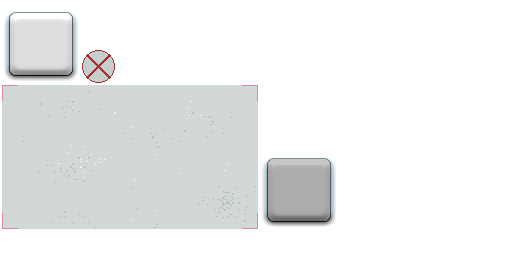
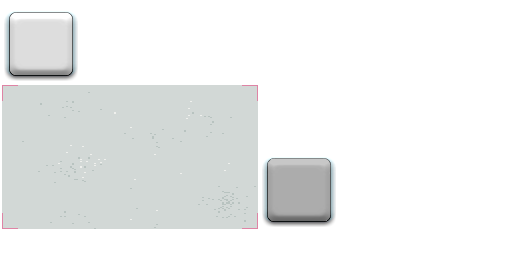
lots of stuff

Changed region(s): [[0.1562, 0.1875, 0.25, 0.3438]]

diff --git a/source code/core/src/no/sandramoen/drawingGame/screens/gameplay/LevelScreen.java b/source code/core/src/no/sandramoen/drawingGame/screens/gameplay/LevelScreen.java
@@ -24,6 +24,7 @@ import no.sandramoen.drawingGame.actors.map.Water;
 import no.sandramoen.drawingGame.actors.utils.BaseActor;
 import no.sandramoen.drawingGame.screens.shell.LevelSelectScreen;
 import no.sandramoen.drawingGame.ui.CancelDrawing;
+import no.sandramoen.drawingGame.ui.LevelOverlay;
 import no.sandramoen.drawingGame.ui.Speedometer;
 import no.sandramoen.drawingGame.ui.StaminaBar;
 import no.sandramoen.drawingGame.utils.BaseGame;
@@ -57,6 +58,7 @@ public class LevelScreen extends BaseScreen {
     private CancelDrawing cancelDrawing;
     private StaminaBar staminaBar;
     private Speedometer speedometer;
+    private LevelOverlay levelOverlay;
 
     private TiledMapActor tilemap;
 
@@ -276,9 +278,10 @@ public class LevelScreen extends BaseScreen {
     }
 
     private void initializeGUI() {
-        cancelDrawing = new CancelDrawing(Gdx.graphics.getWidth() * .1f, Gdx.graphics.getHeight() * .98f, uiStage);
-        staminaBar = new StaminaBar(Gdx.graphics.getWidth() * .5f, Gdx.graphics.getHeight() * .98f, uiStage);
-        speedometer = new Speedometer(Gdx.graphics.getWidth() * .85f, Gdx.graphics.getHeight() * .98f, uiStage);
+        float verticalPadding = Gdx.graphics.getHeight() * .02f;
+        cancelDrawing = new CancelDrawing(Gdx.graphics.getWidth() * .1f, Gdx.graphics.getHeight() - verticalPadding, uiStage);
+        staminaBar = new StaminaBar(Gdx.graphics.getWidth() * .5f, Gdx.graphics.getHeight() - verticalPadding, uiStage);
+        speedometer = new Speedometer(Gdx.graphics.getWidth() * .85f, Gdx.graphics.getHeight() - verticalPadding, uiStage);
 
         fishLabel = new TypingLabel("{FASTER}Remaining fishes: " + fishes.size, new Label.LabelStyle(BaseGame.mySkin.get("arcade26", BitmapFont.class), null));
         fishLabel.setColor(Color.FOREST);
@@ -288,10 +291,13 @@ public class LevelScreen extends BaseScreen {
         turnLabel.setColor(Color.FOREST);
         turnLabel.setAlignment(Align.center);
 
-        uiTable.padTop(staminaBar.getHeight() + Gdx.graphics.getHeight() * .02f);
-        uiTable.defaults().padTop(Gdx.graphics.getHeight() * .02f);
+        levelOverlay = new LevelOverlay();
+
+        uiTable.padTop(staminaBar.getHeight() + verticalPadding);
+        uiTable.defaults().padTop(verticalPadding);
         uiTable.add(fishLabel).prefWidth(Gdx.graphics.getWidth()).row();
-        uiTable.add(turnLabel).prefWidth(Gdx.graphics.getWidth()).expandY().top();
-        /*uiTable.setDebug(true);*/
+        uiTable.add(turnLabel).prefWidth(Gdx.graphics.getWidth()).top().row();
+        uiTable.add(levelOverlay).expandY().padBottom(staminaBar.getHeight() + verticalPadding * 5 + fishLabel.getPrefHeight() + turnLabel.getPrefHeight());
+        uiTable.setDebug(true);
     }
 }

diff --git a/source code/core/src/no/sandramoen/drawingGame/ui/LevelOverlay.java b/source code/core/src/no/sandramoen/drawingGame/ui/LevelOverlay.java
@@ -1,0 +1,63 @@
+package no.sandramoen.drawingGame.ui;
+
+import com.badlogic.gdx.Gdx;
+import com.badlogic.gdx.graphics.g2d.BitmapFont;
+import com.badlogic.gdx.scenes.scene2d.ui.ImageButton;
+import com.badlogic.gdx.scenes.scene2d.ui.Label;
+import com.badlogic.gdx.scenes.scene2d.ui.Table;
+import com.badlogic.gdx.scenes.scene2d.utils.TextureRegionDrawable;
+import com.badlogic.gdx.utils.Align;
+import com.github.tommyettinger.textra.TypingLabel;
+
+import no.sandramoen.drawingGame.utils.BaseGame;
+
+public class LevelOverlay extends Table {
+    public TypingLabel mainLabel;
+    public TypingLabel fishesLeftLabel;
+
+    private ImageButton restartImageButton;
+    private ImageButton nextLevelImageButton;
+
+    public LevelOverlay() {
+        mainLabel = new TypingLabel("", new Label.LabelStyle(BaseGame.mySkin.get("arcade64", BitmapFont.class), null));
+        mainLabel.setAlignment(Align.center);
+
+        restartImageButton = new ImageButton(BaseGame.mySkin);
+        restartImageButton.getStyle().imageUp = new TextureRegionDrawable(BaseGame.textureAtlas.findRegion("GUI/restart"));
+
+        fishesLeftLabel = new TypingLabel("", new Label.LabelStyle(BaseGame.mySkin.get("arcade26", BitmapFont.class), null));
+        fishesLeftLabel.setAlignment(Align.center);
+
+        nextLevelImageButton = new ImageButton(BaseGame.mySkin);
+        nextLevelImageButton.getStyle().imageUp = new TextureRegionDrawable(BaseGame.textureAtlas.findRegion("GUI/next"));
+        // nextLevelImageButton.setBackground(new TextureRegionDrawable(BaseGame.textureAtlas.findRegion("GUI/next")));
+
+
+        float verticalPadding = Gdx.graphics.getHeight() * .02f;
+        add(mainLabel).colspan(3).padBottom(verticalPadding).padLeft(Gdx.graphics.getWidth() * .02f).row();
+        add(restartImageButton).padRight(verticalPadding);
+        add(fishesLeftLabel);
+        add(nextLevelImageButton).padLeft(verticalPadding);
+/*
+        setDebug(true);*/
+
+        setLevelComplete(2, 5);
+    }
+
+    public void setLevelComplete(int numFishes, int totalFishes) {
+        mainLabel.setText("{RAINBOW}Level complete!");
+        mainLabel.restart();
+
+        fishesLeftLabel.setText(numFishes + " / " + totalFishes + " fishes caught");
+        fishesLeftLabel.restart();
+    }
+
+    public void setGameOver(int numFishes, int totalFishes) {
+        mainLabel.setText("{CROWD}Game Over!");
+        mainLabel.restart();
+
+        fishesLeftLabel.setText(numFishes + " / " + totalFishes + " fishes caught");
+        fishesLeftLabel.restart();
+        removeActor(nextLevelImageButton);
+    }
+}

diff --git a/source code/core/src/no/sandramoen/drawingGame/ui/CancelDrawing.java b/source code/core/src/no/sandramoen/drawingGame/ui/CancelDrawing.java
@@ -13,7 +13,7 @@ public class CancelDrawing extends BaseActor {
     public CancelDrawing(float x, float y, Stage stage) {
         super(x, y, stage);
 
-        loadImage("UI_cancel");
+        loadImage("GUI/cancel");
         setSize(100, 100);
         setPosition(x - getWidth() / 2, y - getHeight());
         setBoundaryRectangle();

diff --git a/source code/core/src/no/sandramoen/drawingGame/MyGdxGame.java b/source code/core/src/no/sandramoen/drawingGame/MyGdxGame.java
@@ -9,8 +9,8 @@ public class MyGdxGame extends BaseGame {
 	@Override
 	public void create() {
 		super.create();
-		// setActiveScreen(new LevelScreen(BaseGame.testMap));
-		setActiveScreen(new LevelSelectScreen());
+		setActiveScreen(new LevelScreen(BaseGame.testMap));
+		// setActiveScreen(new LevelSelectScreen());
 	}
 }
 

diff --git a/source code/core/src/no/sandramoen/drawingGame/utils/ShapeDrawer.java b/source code/core/src/no/sandramoen/drawingGame/utils/ShapeDrawer.java
@@ -50,7 +50,7 @@ public class ShapeDrawer {
 
         shapeRenderer = new ShapeRenderer();
         shapeRenderer.setAutoShapeType(true);
-        Gdx.gl20.glLineWidth(2);
+        /*Gdx.gl20.glLineWidth(2);*/
         spriteBatch = new SpriteBatch();
     }
 
